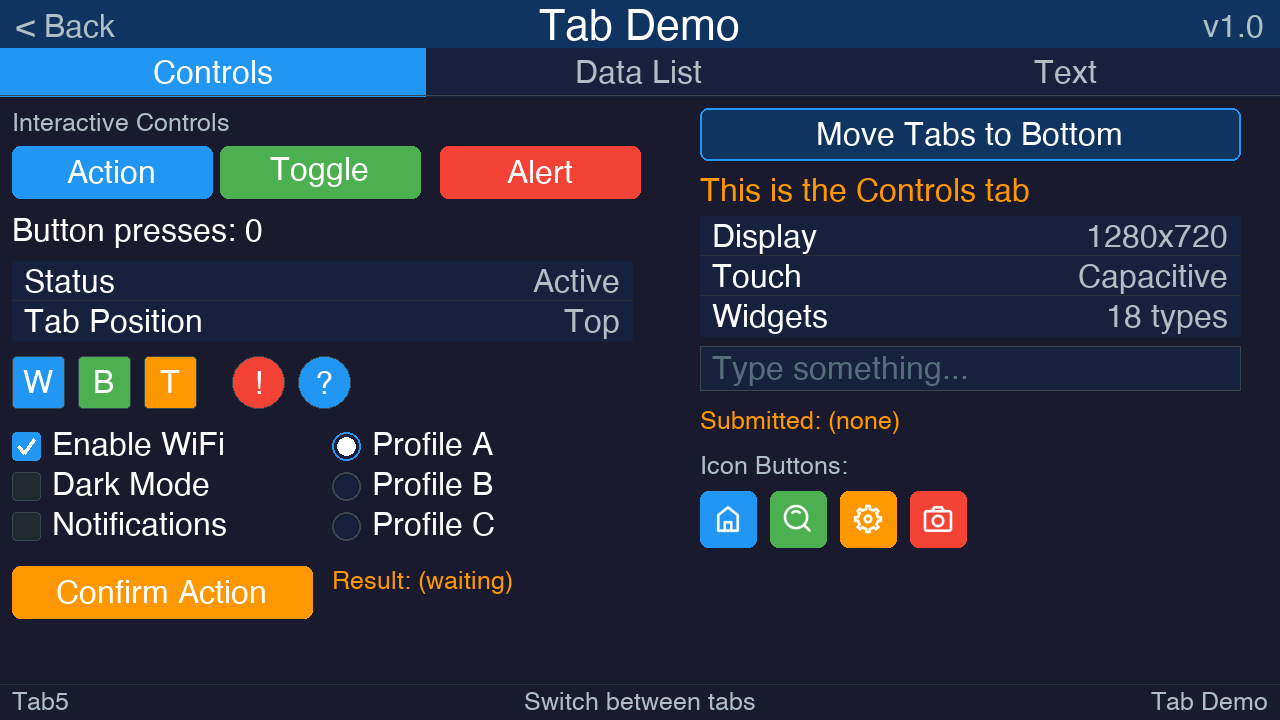
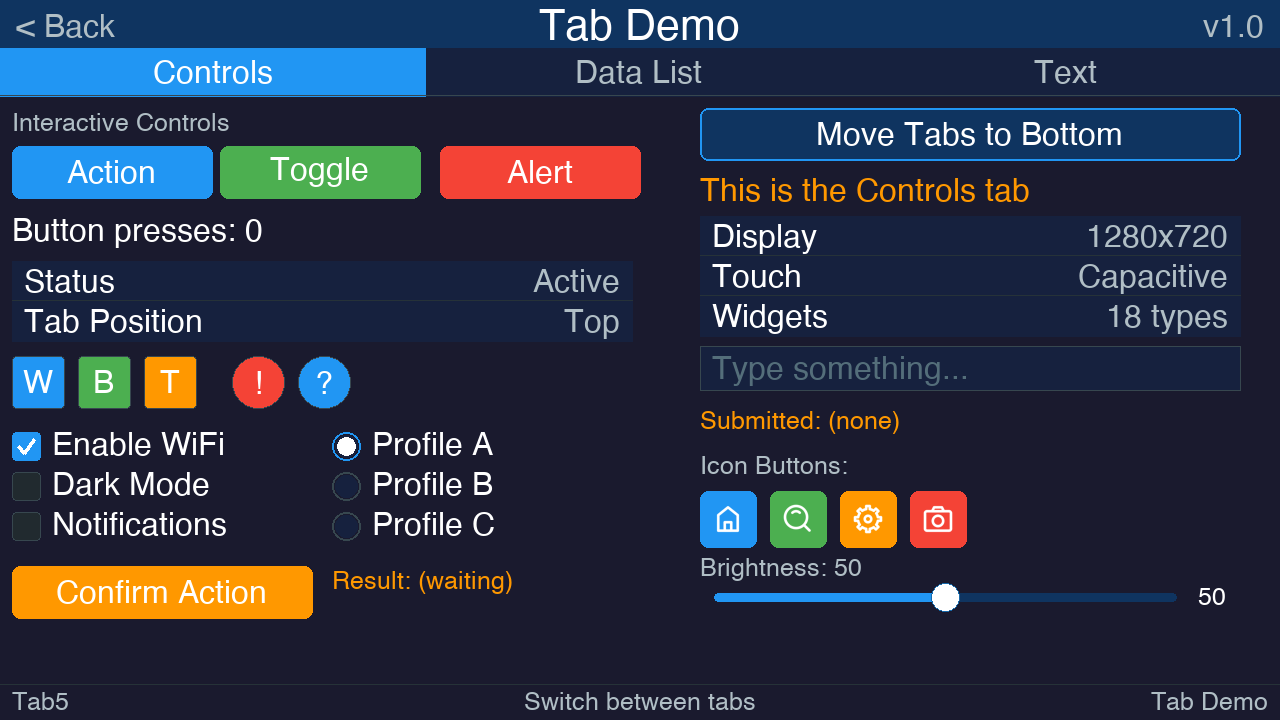
Added UISlider widget

Changed region(s): [[0.5312, 0.7639, 0.9688, 0.8556]]

diff --git a/Tab5UI.cpp b/Tab5UI.cpp
@@ -265,6 +265,165 @@ void UIIconButton::handleTouchUp(int16_t tx, int16_t ty) {
 }
 
 // ═════════════════════════════════════════════════════════════════════════════
+//  UISlider
+// ═════════════════════════════════════════════════════════════════════════════
+
+UISlider::UISlider(int16_t x, int16_t y, int16_t w, int16_t h,
+                   int minVal, int maxVal, int value,
+                   uint32_t trackColor, uint32_t fillColor, uint32_t thumbColor)
+    : UIElement(x, y, w, h)
+    , _minVal(minVal)
+    , _maxVal(maxVal)
+    , _value(value)
+    , _trackColor(trackColor)
+    , _fillColor(fillColor)
+    , _thumbColor(thumbColor)
+{
+    if (_value < _minVal) _value = _minVal;
+    if (_value > _maxVal) _value = _maxVal;
+}
+
+void UISlider::setValue(int v) {
+    if (v < _minVal) v = _minVal;
+    if (v > _maxVal) v = _maxVal;
+    if (v != _value) {
+        _value = v;
+        _dirty = true;
+    }
+}
+
+void UISlider::setRange(int minVal, int maxVal) {
+    _minVal = minVal;
+    _maxVal = maxVal;
+    if (_value < _minVal) _value = _minVal;
+    if (_value > _maxVal) _value = _maxVal;
+    _dirty = true;
+}
+
+void UISlider::setLabel(const char* label) {
+    strncpy(_label, label, sizeof(_label) - 1);
+    _label[sizeof(_label) - 1] = '\0';
+    _dirty = true;
+}
+
+void UISlider::_updateFromTouch(int16_t tx) {
+    // Track area: inset by thumb radius on each side
+    int16_t trackLeft  = _x + _thumbR;
+    int16_t trackRight = _x + _w - _thumbR;
+    int16_t trackW     = trackRight - trackLeft;
+    if (trackW <= 0) return;
+
+    // Clamp touch to track bounds
+    int16_t clamped = tx;
+    if (clamped < trackLeft)  clamped = trackLeft;
+    if (clamped > trackRight) clamped = trackRight;
+
+    // Map position to value
+    int range = _maxVal - _minVal;
+    int newVal = _minVal + (int)(((int32_t)(clamped - trackLeft) * range + trackW / 2) / trackW);
+    if (newVal < _minVal) newVal = _minVal;
+    if (newVal > _maxVal) newVal = _maxVal;
+
+    if (newVal != _value) {
+        _value = newVal;
+        _dirty = true;
+        if (_onChange) _onChange(_value);
+    }
+}
+
+void UISlider::draw(M5GFX& gfx) {
+    if (!_visible) return;
+
+    // Clear background area
+    gfx.fillRect(_x, _y, _w, _h, rgb888(Tab5Theme::BG_DARK));
+
+    // Optional label (drawn in top portion of the widget area)
+    int16_t labelOffset = 0;
+    if (_showLabel && _label[0] != '\0') {
+        labelOffset = 22;
+        gfx.setTextSize(TAB5_FONT_SIZE_SM);
+        gfx.setTextDatum(textdatum_t::top_left);
+        gfx.setTextColor(rgb888(Tab5Theme::TEXT_SECONDARY));
+        gfx.drawString(_label, _x, _y);
+    }
+
+    int16_t trackLeft  = _x + _thumbR;
+    int16_t trackRight = _x + _w - _thumbR;
+    int16_t trackW     = trackRight - trackLeft;
+    int16_t sliderCenterY = _y + labelOffset + (_h - labelOffset) / 2;
+    int16_t trackY     = sliderCenterY - _trackH / 2;
+
+    // Value label area (takes ~40px from right if enabled)
+    int16_t labelW = 0;
+    if (_showValue) {
+        labelW = 50;
+        trackRight = _x + _w - _thumbR - labelW;
+        trackW = trackRight - trackLeft;
+    }
+
+    // Draw background track (full width, rounded)
+    int16_t trackR = _trackH / 2;
+    gfx.fillSmoothRoundRect(trackLeft, trackY, trackW, _trackH, trackR,
+                            rgb888(_trackColor));
+
+    // Calculate thumb position
+    float ratio = 0.0f;
+    if (_maxVal > _minVal) {
+        ratio = (float)(_value - _minVal) / (float)(_maxVal - _minVal);
+    }
+    int16_t thumbX = trackLeft + (int16_t)(ratio * trackW);
+
+    // Draw filled portion (left of thumb)
+    if (thumbX > trackLeft) {
+        int16_t fillW = thumbX - trackLeft;
+        gfx.fillSmoothRoundRect(trackLeft, trackY, fillW, _trackH, trackR,
+                                rgb888(_fillColor));
+    }
+
+    // Draw thumb circle
+    uint32_t tc = _dragging ? rgb888(darken(_thumbColor)) : rgb888(_thumbColor);
+    gfx.fillSmoothCircle(thumbX, sliderCenterY, _thumbR, tc);
+
+    // Optional border on thumb
+    gfx.drawCircle(thumbX, sliderCenterY, _thumbR, rgb888(darken(_fillColor)));
+
+    // Value text
+    if (_showValue) {
+        char buf[12];
+        snprintf(buf, sizeof(buf), "%d", _value);
+        gfx.setTextSize(TAB5_FONT_SIZE_SM);
+        gfx.setTextDatum(textdatum_t::middle_left);
+        gfx.setTextColor(rgb888(Tab5Theme::TEXT_PRIMARY));
+        gfx.drawString(buf, _x + _w - labelW + 8, sliderCenterY);
+    }
+
+    _dirty = false;
+}
+
+void UISlider::handleTouchDown(int16_t tx, int16_t ty) {
+    if (!hitTest(tx, ty)) return;
+    _dragging = true;
+    _pressed = true;
+    _updateFromTouch(tx);
+    if (_onTouch) _onTouch(TouchEvent::TOUCH);
+}
+
+void UISlider::handleTouchMove(int16_t tx, int16_t ty) {
+    if (_dragging) {
+        _updateFromTouch(tx);
+    }
+}
+
+void UISlider::handleTouchUp(int16_t tx, int16_t ty) {
+    if (_dragging) {
+        _dragging = false;
+        _pressed = false;
+        _dirty = true;
+        if (_onRelease) _onRelease(TouchEvent::TOUCH_RELEASE);
+    }
+}
+
+// ═════════════════════════════════════════════════════════════════════════════
 //  UITitleBar
 // ═════════════════════════════════════════════════════════════════════════════
 

diff --git a/Tab5UI.h b/Tab5UI.h
@@ -4,7 +4,7 @@
  * A lightweight UI widget library built on M5GFX for the M5Stack Tab5's
  * 5-inch 1280x720 IPS capacitive touchscreen.
  *
- * Widgets: Label, Button, IconButton, TitleBar, StatusBar, TextRow,
+ * Widgets: Label, Button, IconButton, Slider, TitleBar, StatusBar, TextRow,
  *          IconSquare, IconCircle, Menu, TextInput, Keyboard, TabView,
  *          ConfirmPopup, ScrollText
  * All widgets support touch and touch-release event callbacks.
@@ -57,7 +57,7 @@ namespace Tab5UI {
 #define TAB5_LIST_SCROLLBAR_W 6     // Scrollbar width
 #define TAB5_TAB_BAR_H      48      // Tab bar height
 #define TAB5_TAB_MAX_PAGES  8       // Max pages in a tab view
-#define TAB5_TAB_MAX_CHILDREN 32    // Max child elements per page
+#define TAB5_TAB_MAX_CHILDREN 36    // Max child elements per page
 #define TAB5_FONT_SIZE_SM   1.4f    // Small text
 #define TAB5_FONT_SIZE_MD   1.8f    // Medium text (labels, buttons)
 #define TAB5_FONT_SIZE_LG   2.4f    // Large text (title bar)
@@ -277,6 +277,73 @@ private:
     float          _textSize;
     int16_t        _radius    = TAB5_BTN_R;
     bool           _hasBorder = false;
+};
+
+/*******************************************************************************
+ * UISlider — Horizontal slider with draggable thumb
+ *
+ * A horizontal slider with a configurable min/max range.  The user drags the
+ * thumb (or taps anywhere on the track) to set the value.  An onChange
+ * callback fires whenever the value changes.
+ *
+ * Usage:
+ *   UISlider slider(100, 200, 400, 40, 0, 100);
+ *   slider.setOnChange([](int value) { Serial.println(value); });
+ ******************************************************************************/
+using SliderChangeCallback = std::function<void(int value)>;
+
+class UISlider : public UIElement {
+public:
+    UISlider(int16_t x, int16_t y, int16_t w, int16_t h,
+             int minVal = 0, int maxVal = 100, int value = 0,
+             uint32_t trackColor  = Tab5Theme::SURFACE,
+             uint32_t fillColor   = Tab5Theme::PRIMARY,
+             uint32_t thumbColor  = Tab5Theme::TEXT_PRIMARY);
+
+    void draw(M5GFX& gfx) override;
+    void handleTouchDown(int16_t tx, int16_t ty) override;
+    void handleTouchMove(int16_t tx, int16_t ty) override;
+    void handleTouchUp(int16_t tx, int16_t ty) override;
+
+    // Value accessors
+    void setValue(int v);
+    int  getValue() const { return _value; }
+    void setRange(int minVal, int maxVal);
+    int  getMin() const { return _minVal; }
+    int  getMax() const { return _maxVal; }
+
+    // Appearance
+    void setTrackColor(uint32_t c) { _trackColor = c; _dirty = true; }
+    void setFillColor(uint32_t c)  { _fillColor = c; _dirty = true; }
+    void setThumbColor(uint32_t c) { _thumbColor = c; _dirty = true; }
+    void setThumbRadius(int16_t r) { _thumbR = r; _dirty = true; }
+    void setShowValue(bool show)   { _showValue = show; _dirty = true; }
+
+    // Optional label (drawn above the track)
+    void setLabel(const char* label);
+    const char* getLabel() const   { return _label; }
+    void setShowLabel(bool show)   { _showLabel = show; _dirty = true; }
+
+    // Callback
+    void setOnChange(SliderChangeCallback cb) { _onChange = cb; }
+
+private:
+    void _updateFromTouch(int16_t tx);
+
+    int      _minVal;
+    int      _maxVal;
+    int      _value;
+    uint32_t _trackColor;
+    uint32_t _fillColor;
+    uint32_t _thumbColor;
+    int16_t  _thumbR     = 14;
+    int16_t  _trackH     = 8;
+    bool     _showValue  = false;
+    bool     _showLabel  = false;
+    bool     _dragging   = false;
+    char     _label[64]  = "";
+
+    SliderChangeCallback _onChange = nullptr;
 };
 
 /*******************************************************************************

diff --git a/README.md b/README.md
@@ -9,6 +9,7 @@ A lightweight, Arduino-compatible UI widget library built on **M5GFX** for the M
 | **UILabel** | Static/dynamic text with alignment, color, and background options |
 | **UIButton** | Rounded-rect button with press feedback and customizable colors |
 | **UIIconButton** | Button with PROGMEM PNG icon (32×32) and text fallback, same styling as UIButton |
+| **UISlider** | Horizontal slider with draggable thumb, configurable min/max range, and onChange callback |
 | **UITitleBar** | Full-width top bar with center title, optional left/right touch zones |
 | **UIStatusBar** | Full-width bottom bar with left/center/right text |
 | **UITextRow** | Key-value row with label on left, value on right, and dividers |
@@ -276,8 +277,41 @@ homeBtn.setOnTouchRelease([](TouchEvent e) {
 
 > The `icons/` directory contains 55 ready-to-use icon headers converted from [IconPark](https://github.com/bytedance/IconPark) (Apache 2.0).  See `icons/README.md` for the full list.
 
+### UISlider
+
+A horizontal slider with a draggable thumb.  Tap anywhere on the track or drag the thumb to set the value.  An `onChange` callback fires whenever the value changes.  Both the label and numeric value display are optional (off by default).
+
 ```cpp
-UITitleBar("title", bgColor, textColor);
+UISlider(x, y, w, h, minVal, maxVal, value, trackColor, fillColor, thumbColor);
+void setValue(int v);
+int  getValue() const;
+void setRange(int minVal, int maxVal);
+int  getMin() const;
+int  getMax() const;
+void setTrackColor(uint32_t c);
+void setFillColor(uint32_t c);
+void setThumbColor(uint32_t c);
+void setThumbRadius(int16_t r);
+void setLabel(const char* label);    // Built-in label text (drawn above track)
+void setShowLabel(bool show);        // Show/hide label (default: off)
+void setShowValue(bool show);        // Show/hide numeric value (default: off)
+void setOnChange(SliderChangeCallback cb);  // void(int value)
+```
+
+**Example:**
+```cpp
+UISlider brightness(100, 200, 400, 60, 0, 100, 50);
+brightness.setShowLabel(true);
+brightness.setShowValue(true);
+brightness.setLabel("Brightness: 50");
+brightness.setOnChange([](int value) {
+    char buf[32];
+    snprintf(buf, sizeof(buf), "Brightness: %d", value);
+    brightness.setLabel(buf);
+});
+```
+
+### UITitleBar
 void setTitle(const char* title);
 const char* getTitle() const;
 void setLeftText(const char* text);    // e.g. "< Back"
